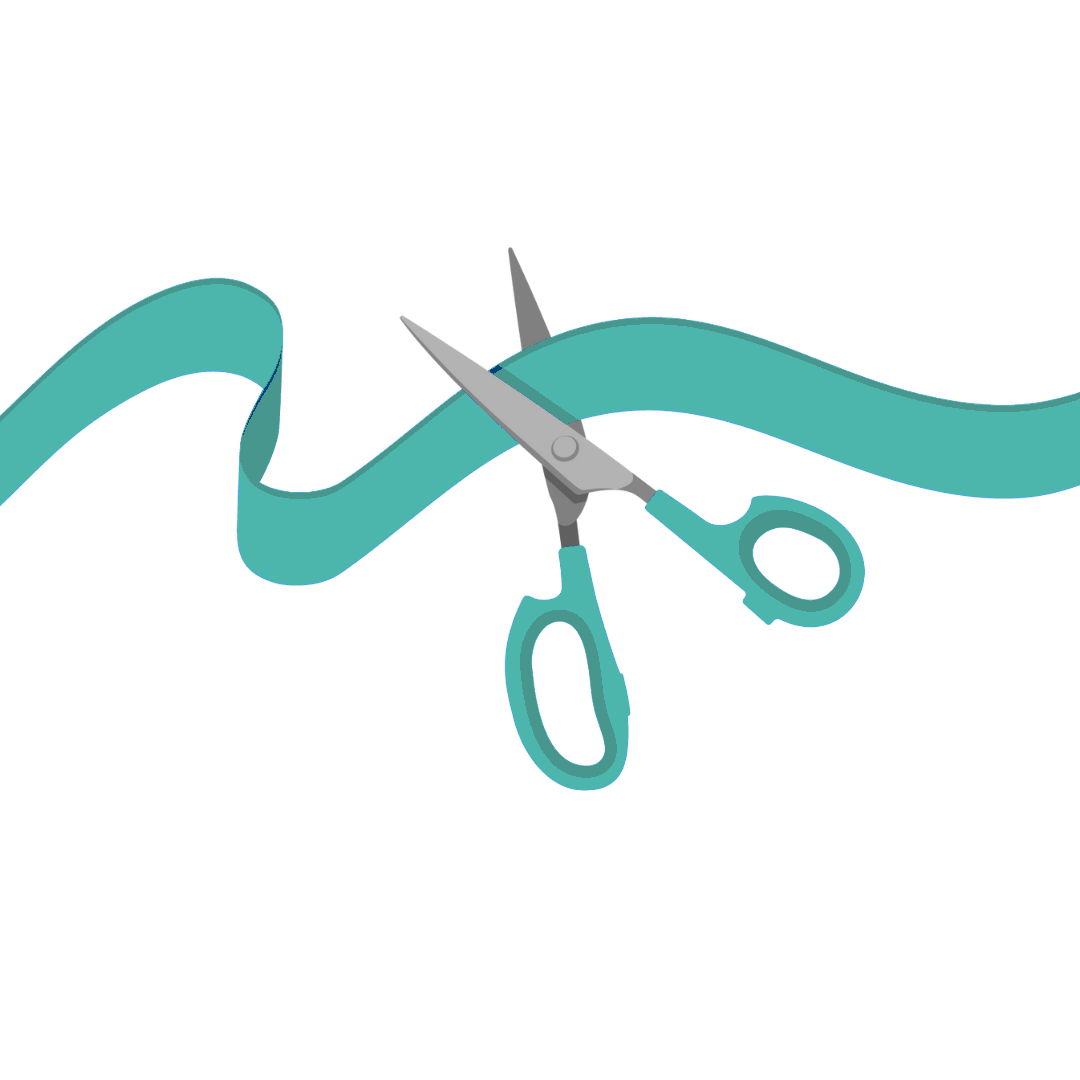
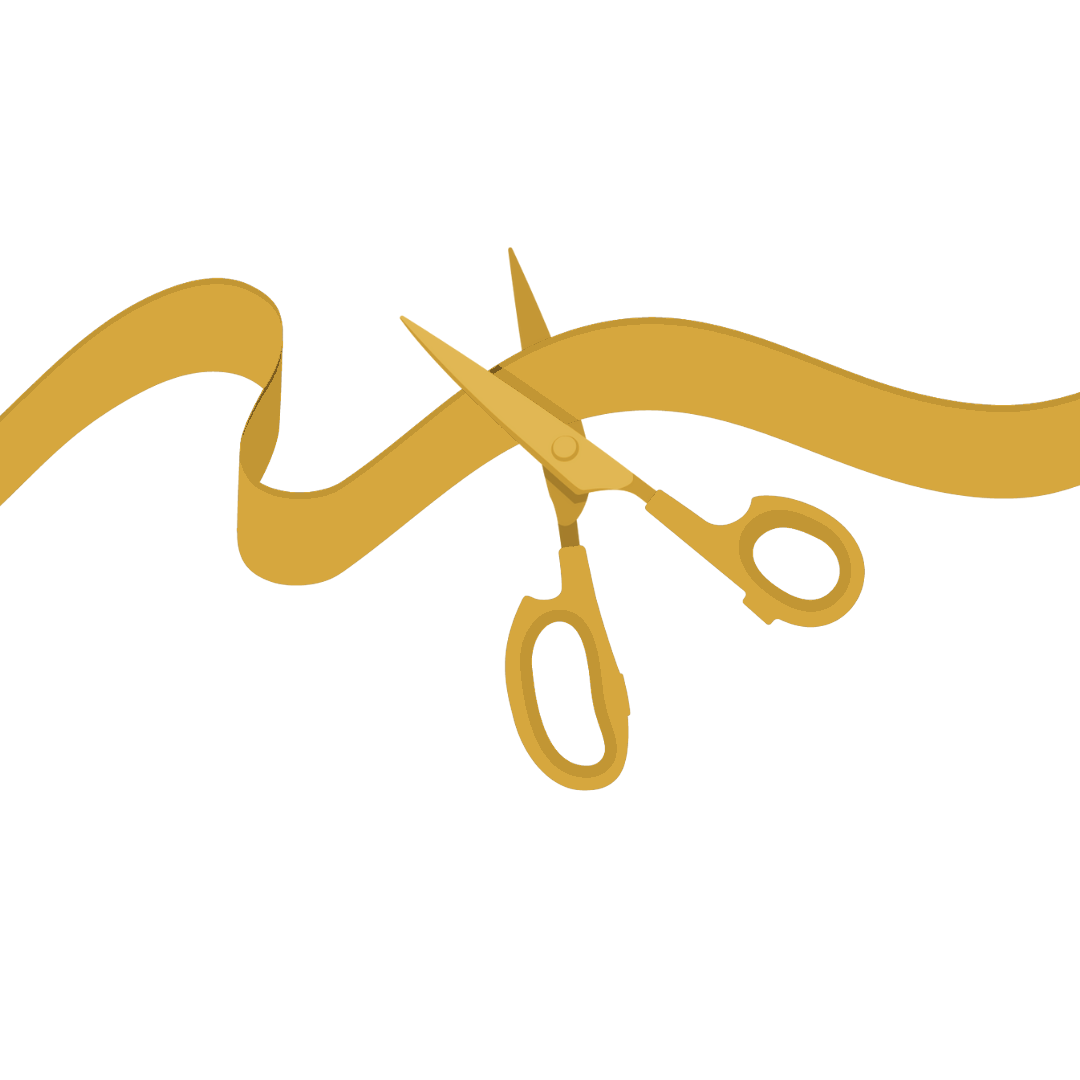
feat:updated the latest MUN itinerary

Changed region(s): [[0.0, 0.2139, 1.0, 0.7333]]

diff --git a/src/components/sections/Schedule.jsx b/src/components/sections/Schedule.jsx
@@ -44,7 +44,7 @@ const Schedule = () => {
             {day1Data.map((item, index) => (
               <tr key={index}>
                 <td style={{ width: "20%", padding: "10px 10px" }}>
-                  {isMounted && <Image src={item.logo} alt="logo" width={50} height={50} style={{ filter: "hue-rotate(210deg) saturate(50%) brightness(90%) opacity(0.7)" }} />}
+                  {isMounted && <Image src={item.logo} alt="logo" width={64} height={64} style={{ opacity: 1, filter: "drop-shadow(0 0 4px rgba(212, 164, 58, 0.5))" }} />}
                 </td>
                 <td className='a-80' style={{ padding: "10px 0px" }}>{item.timings}</td>
                 <td className='a-80' style={{ padding: "10px 10px", color: "#F5F1E8" }}>{item.events}</td>
@@ -63,7 +63,7 @@ const Schedule = () => {
             {day2Data.map((item, index) => (
               <tr key={index}>
                 <td style={{ width: "20%", padding: "10px 10px"  }}>
-                  {isMounted && <Image src={item.logo} alt="logo" width={50} height={50} style={{ filter: "hue-rotate(210deg) saturate(50%) brightness(90%) opacity(0.7)" }} />}
+                  {isMounted && <Image src={item.logo} alt="logo" width={64} height={64} style={{ opacity: 1, filter: "drop-shadow(0 0 4px rgba(212, 164, 58, 0.5))" }} />}
                 </td>
                 <td className='a-80' style={{ padding: "10px 0px"}}>{item.timings}</td>
                 <td className='a-80' style={{ padding: "10px 10px", color: "#F5F1E8"}}>{item.events}</td>

diff --git a/src/pages/index.jsx b/src/pages/index.jsx
@@ -57,7 +57,7 @@ const Page = (props) => {
             </div>
           </div>
           <div style={{ position: "relative", zIndex: 1 }}>
-            {/*<Schedule />*/}
+            <Schedule />
             <VideoSection />
             <div style={{ marginTop: 100 }}>
               <RegisterCta />
